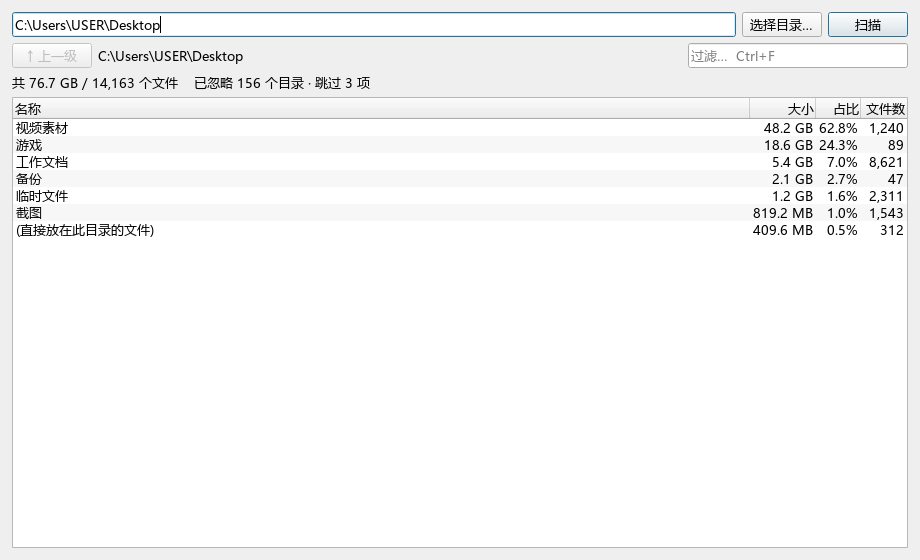
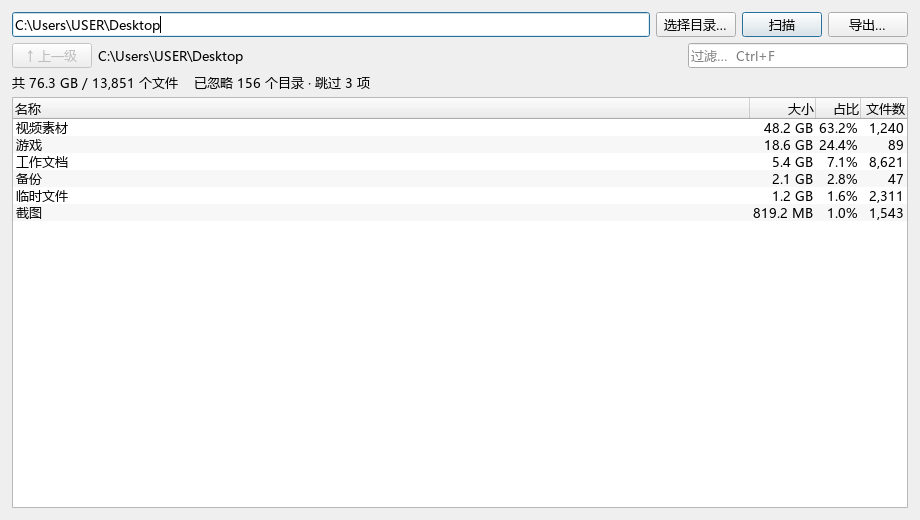
1.0.2

Changed region(s): [[0.0, 0.0, 1.0, 0.4308], [0.0304, 0.9538, 0.9739, 0.9846]]

diff --git a/filetidy/gui.py b/filetidy/gui.py
@@ -1,9 +1,11 @@
 from __future__ import annotations
 
+import csv
+import io
 import sys
 from pathlib import Path
 
-from PySide6.QtCore import Qt, QThread, QUrl, Signal
+from PySide6.QtCore import QSettings, Qt, QThread, QUrl, Signal
 from PySide6.QtGui import QDesktopServices, QKeySequence, QShortcut
 from PySide6.QtWidgets import (
     QApplication,
@@ -21,12 +23,27 @@ from PySide6.QtWidgets import (
     QWidget,
 )
 
+from . import __version__
 from .cli import human_size  # 共用的格式化函数，cli 不反过来 import gui，没有环
 from .core import DirStat, child_totals
 from .fs import ScanCancelled, scan
 from .models import RawScan, ScanProgress
 
 RIGHT = Qt.AlignmentFlag.AlignRight | Qt.AlignmentFlag.AlignVCenter
+
+
+def render_csv(root: Path, stats: tuple[DirStat, ...]) -> str:
+    total = sum(stat.total_size for stat in stats)
+    buf = io.StringIO()
+    writer = csv.writer(buf)
+    writer.writerow(["名称", "大小(字节)", "大小", "占比", "文件数"])
+    for stat in stats:
+        name = stat.key or "(直接放在此目录的文件)"
+        percent = (stat.total_size / total * 100) if total else 0.0
+        writer.writerow(
+            [name, stat.total_size, human_size(stat.total_size), f"{percent:.1f}%", stat.file_count]
+        )
+    return buf.getvalue()
 
 
 class ScanWorker(QThread):
@@ -67,7 +84,7 @@ class ScanWorker(QThread):
 class MainWindow(QWidget):
     def __init__(self, start_path: str = ".") -> None:
         super().__init__()
-        self.setWindowTitle("filetidy · 看看空间去哪了")
+        self.setWindowTitle(f"filetidy {__version__} · 看看空间去哪了")
         self.resize(920, 640)
 
         self._worker: ScanWorker | None = None
@@ -76,9 +93,17 @@ class MainWindow(QWidget):
         self._stats: tuple[DirStat, ...] = ()  # 当前这一层的完整统计（过滤前）
         self._skipped = 0
         self._ignored = 0
+        self._settings = QSettings("nmkllp", "filetidy")
 
         self._build_ui()
-        self.path_edit.setText(str(start_path))
+        self.path_edit.setText(self._initial_path(start_path))
+
+    def _initial_path(self, fallback: str) -> str:
+        """上次扫过的目录。没有记录（或目录已经不在了）就用主目录。"""
+        remembered = self._settings.value("last_dir", "", type=str)
+        if remembered and Path(remembered).is_dir():
+            return remembered
+        return str(fallback)
 
     # ── 界面搭建 ──────────────────────────────────────────────
 
@@ -90,12 +115,15 @@ class MainWindow(QWidget):
         self.scan_btn.setDefault(True)
         self.cancel_btn = QPushButton("取消")
         self.cancel_btn.setVisible(False)  # 只在扫描时出现，平时不占地方
+        self.export_btn = QPushButton("导出…")
+        self.export_btn.setEnabled(False)
 
         top = QHBoxLayout()
         top.addWidget(self.path_edit, 1)
         top.addWidget(self.browse_btn)
         top.addWidget(self.scan_btn)
         top.addWidget(self.cancel_btn)
+        top.addWidget(self.export_btn)
 
         self.up_btn = QPushButton("↑ 上一级")
         self.up_btn.setEnabled(False)
@@ -156,6 +184,7 @@ class MainWindow(QWidget):
         self.browse_btn.clicked.connect(self._choose_dir)
         self.scan_btn.clicked.connect(self.start_scan)
         self.cancel_btn.clicked.connect(self.cancel_scan)
+        self.export_btn.clicked.connect(self.export_current_view)
         self.path_edit.returnPressed.connect(self.start_scan)
         self.up_btn.clicked.connect(self.go_up)
         self.tree.itemActivated.connect(self._on_item_activated)
@@ -183,6 +212,8 @@ class MainWindow(QWidget):
             self.status.setText(f"这不是一个目录: {target}")
             return
 
+        self._settings.setValue("last_dir", str(target))  # 下次打开直接站在这儿
+        self.export_btn.setEnabled(False)
         self.tree.clear()
         self._raw = None
         self._root = None
@@ -272,7 +303,24 @@ class MainWindow(QWidget):
         self._stats = stats
         self._skipped = skipped
         self._ignored = ignored
+        self.export_btn.setEnabled(bool(stats))
         self._fill_tree()
+
+    def export_current_view(self) -> None:
+        """把当前这一层导出成 CSV。"""
+        if self._root is None or not self._stats:
+            return
+
+        suggested = Path.home() / f"{self._root.name or 'scan'}.csv"
+        target, _ = QFileDialog.getSaveFileName(
+            self, "导出当前这一层", str(suggested), "CSV 文件 (*.csv)"
+        )
+        if not target:
+            return
+
+        # utf-8-sig 会带 BOM，Excel 打开中文才不会乱码
+        Path(target).write_text(render_csv(self._root, self._stats), encoding="utf-8-sig")
+        self.status.setText(f"已导出：{target}")
 
     def _on_filter_changed(self, _text: str) -> None:
         self._fill_tree()

diff --git a/filetidy/__init__.py b/filetidy/__init__.py
@@ -1,1 +1,1 @@
-__version__ = "1.0.1"
+__version__ = "1.0.2"
